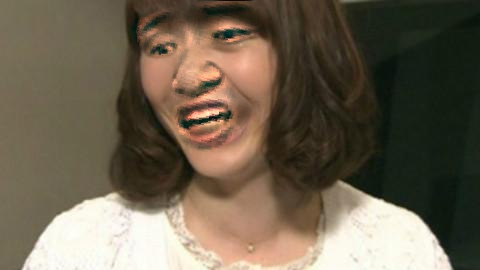
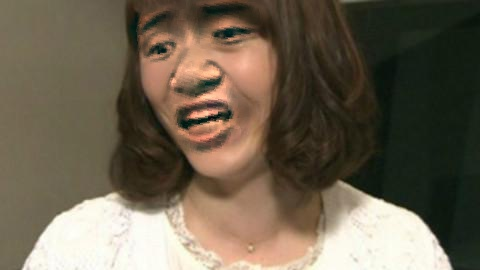
[faceExpression]加入了风格迁移部分的内容

Changed region(s): [[0.2812, 0.0296, 0.5, 0.5926], [0.4062, 0.0593, 0.5312, 0.1778], [0.4375, 0.0, 0.5312, 0.0296]]

diff --git a/searchFile.py b/searchFile.py
@@ -1,10 +1,23 @@
+from __future__ import print_function
 import wx
 import cv2
 import dlib
 import numpy
+import tensorflow as tf
+from preprocessing import preprocessing_factory
+import reader
+import model
+import time
+import os
 
 import sys
 from wx.lib.filebrowsebutton import FileBrowseButton
+
+tf.app.flags.DEFINE_string('loss_model', 'vgg_16', 'The name of the architecture to evaluate. '
+                           'You can view all the support models in nets/nets_factory.py')
+tf.app.flags.DEFINE_integer('image_size', 256, 'Image size to train.')
+tf.app.flags.DEFINE_string("model_file", "models/fe.ckpt-8000", "")
+tf.app.flags.DEFINE_string("image_file", "output.jpg", "")
 
 class MyApp(wx.App):
     
@@ -16,7 +29,7 @@ class MyApp(wx.App):
 
 class Image(wx.Frame):
 
-    def __init__(self,image,parent=None,id=-1,pos=wx.DefaultPosition,title="Hello,wxPython!"):
+    def __init__(self,image,parent=None,id=-1,pos=wx.DefaultPosition,title="表情包成果预览"):
     
         temp = image.ConvertToBitmap()
 
@@ -27,6 +40,67 @@ class Image(wx.Frame):
         wx.StaticBitmap(parent=self,bitmap=temp)
         wx.StaticBitmap(parent=panel,bitmap=temp)
 
+class Style():
+    def main():
+
+        FLAGS = tf.app.flags.FLAGS
+
+        # Get image's height and width.
+        height = 0
+        width = 0
+        with open(FLAGS.image_file, 'rb') as img:
+            with tf.Session().as_default() as sess:
+                if FLAGS.image_file.lower().endswith('png'):
+                    image = sess.run(tf.image.decode_png(img.read()))
+                else:
+                    image = sess.run(tf.image.decode_jpeg(img.read()))
+                height = image.shape[0]
+                width = image.shape[1]
+        tf.logging.info('Image size: %dx%d' % (width, height))
+
+        with tf.Graph().as_default():
+            with tf.Session().as_default() as sess:
+
+                # Read image data.
+                image_preprocessing_fn, _ = preprocessing_factory.get_preprocessing(
+                    FLAGS.loss_model,
+                    is_training=False)
+                image = reader.get_image(FLAGS.image_file, height, width, image_preprocessing_fn)
+
+                # Add batch dimension
+                image = tf.expand_dims(image, 0)
+
+                generated = model.net(image, training=False)
+                generated = tf.cast(generated, tf.uint8)
+
+                # Remove batch dimension
+                generated = tf.squeeze(generated, [0])
+
+                # Restore model variables.
+                saver = tf.train.Saver(tf.global_variables(), write_version=tf.train.SaverDef.V1)
+                sess.run([tf.global_variables_initializer(), tf.local_variables_initializer()])
+                # Use absolute path
+                FLAGS.model_file = os.path.abspath(FLAGS.model_file)
+                saver.restore(sess, FLAGS.model_file)
+
+                # Make sure 'generated' directory exists.
+                generated_file = 'generated/res.jpg'
+                if os.path.exists('generated') is False:
+                    os.makedirs('generated')
+
+                # Generate and write image data to file.
+                with open(generated_file, 'wb') as img:
+                    start_time = time.time()
+                    img.write(sess.run(tf.image.encode_jpeg(generated)))
+                    end_time = time.time()
+                    tf.logging.info('Elapsed time: %fs' % (end_time - start_time))
+
+                    tf.logging.info('Done. Please check %s.' % generated_file)
+
+
+    # if __name__ == '__main__':
+    #     tf.logging.set_verbosity(tf.logging.INFO)
+    #     tf.app.run()
 class MyFrame(wx.Frame):
     def __init__(self):
         wx.Frame.__init__(self, None, title="Face_Expression_AutoMai",
@@ -247,11 +321,15 @@ class MyFrame(wx.Frame):
         #     wx.MessageBox("Invalid sound file", "Error")    
 
         # Alerts after generating the pictures
-        dlg = wx.MessageDialog(None, '图片生成完毕',
+        image = wx.Image("./output.jpg",wx.BITMAP_TYPE_JPEG)
+        frame = Image(image)
+        frame.Show()
+        dlg = wx.MessageDialog(None, '图片生成完毕，开始风格迁移。未迁移前图片地址："./output.jpg"',
                           'Succeed', wx.YES_NO | wx.ICON_QUESTION)
         result = dlg.ShowModal()
         dlg.Destroy()
-        image = wx.Image("output.jpg",wx.BITMAP_TYPE_JPEG)
+        Style.main()
+        image = wx.Image("./generated/res.jpg",wx.BITMAP_TYPE_JPEG)
         frame = Image(image)
         frame.Show()
 app = wx.PySimpleApp()

diff --git a/eval.py b/eval.py
@@ -10,8 +10,8 @@ import os
 tf.app.flags.DEFINE_string('loss_model', 'vgg_16', 'The name of the architecture to evaluate. '
                            'You can view all the support models in nets/nets_factory.py')
 tf.app.flags.DEFINE_integer('image_size', 256, 'Image size to train.')
-tf.app.flags.DEFINE_string("model_file", "models.ckpt", "")
-tf.app.flags.DEFINE_string("image_file", "a.jpg", "")
+tf.app.flags.DEFINE_string("model_file", "models/fe.ckpt-8000", "")
+tf.app.flags.DEFINE_string("image_file", "output.jpg", "")
 
 FLAGS = tf.app.flags.FLAGS
 
